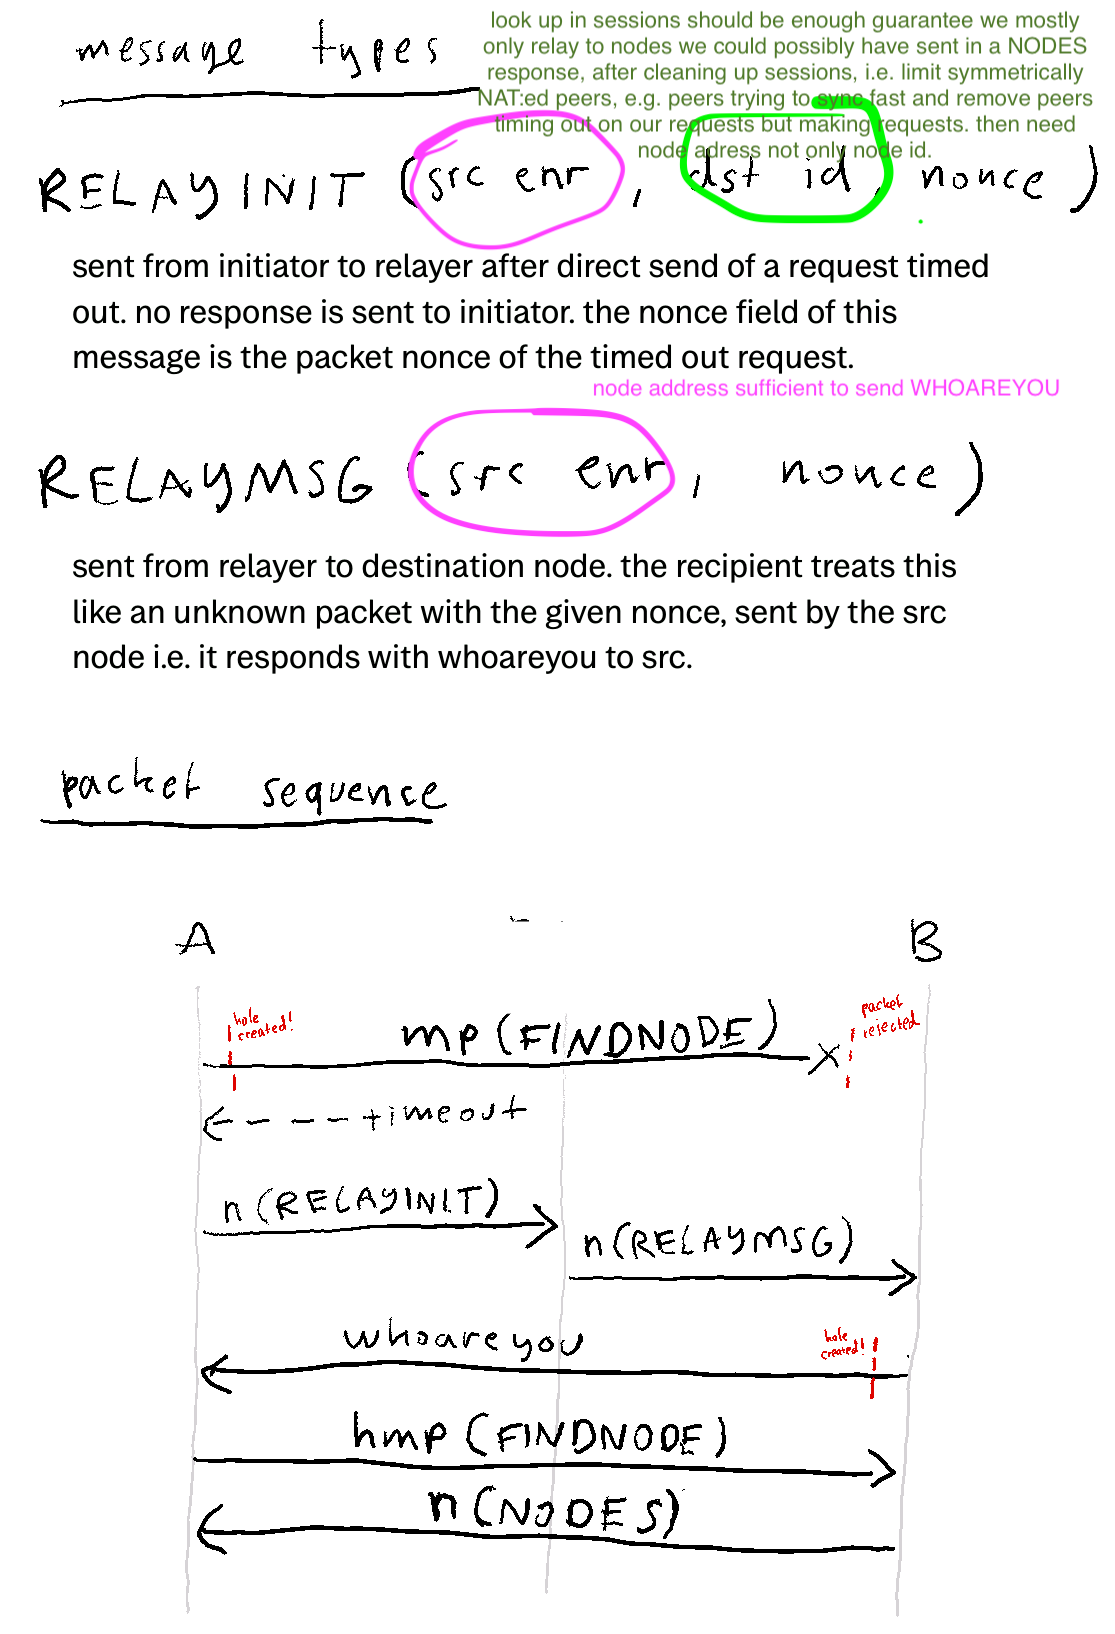
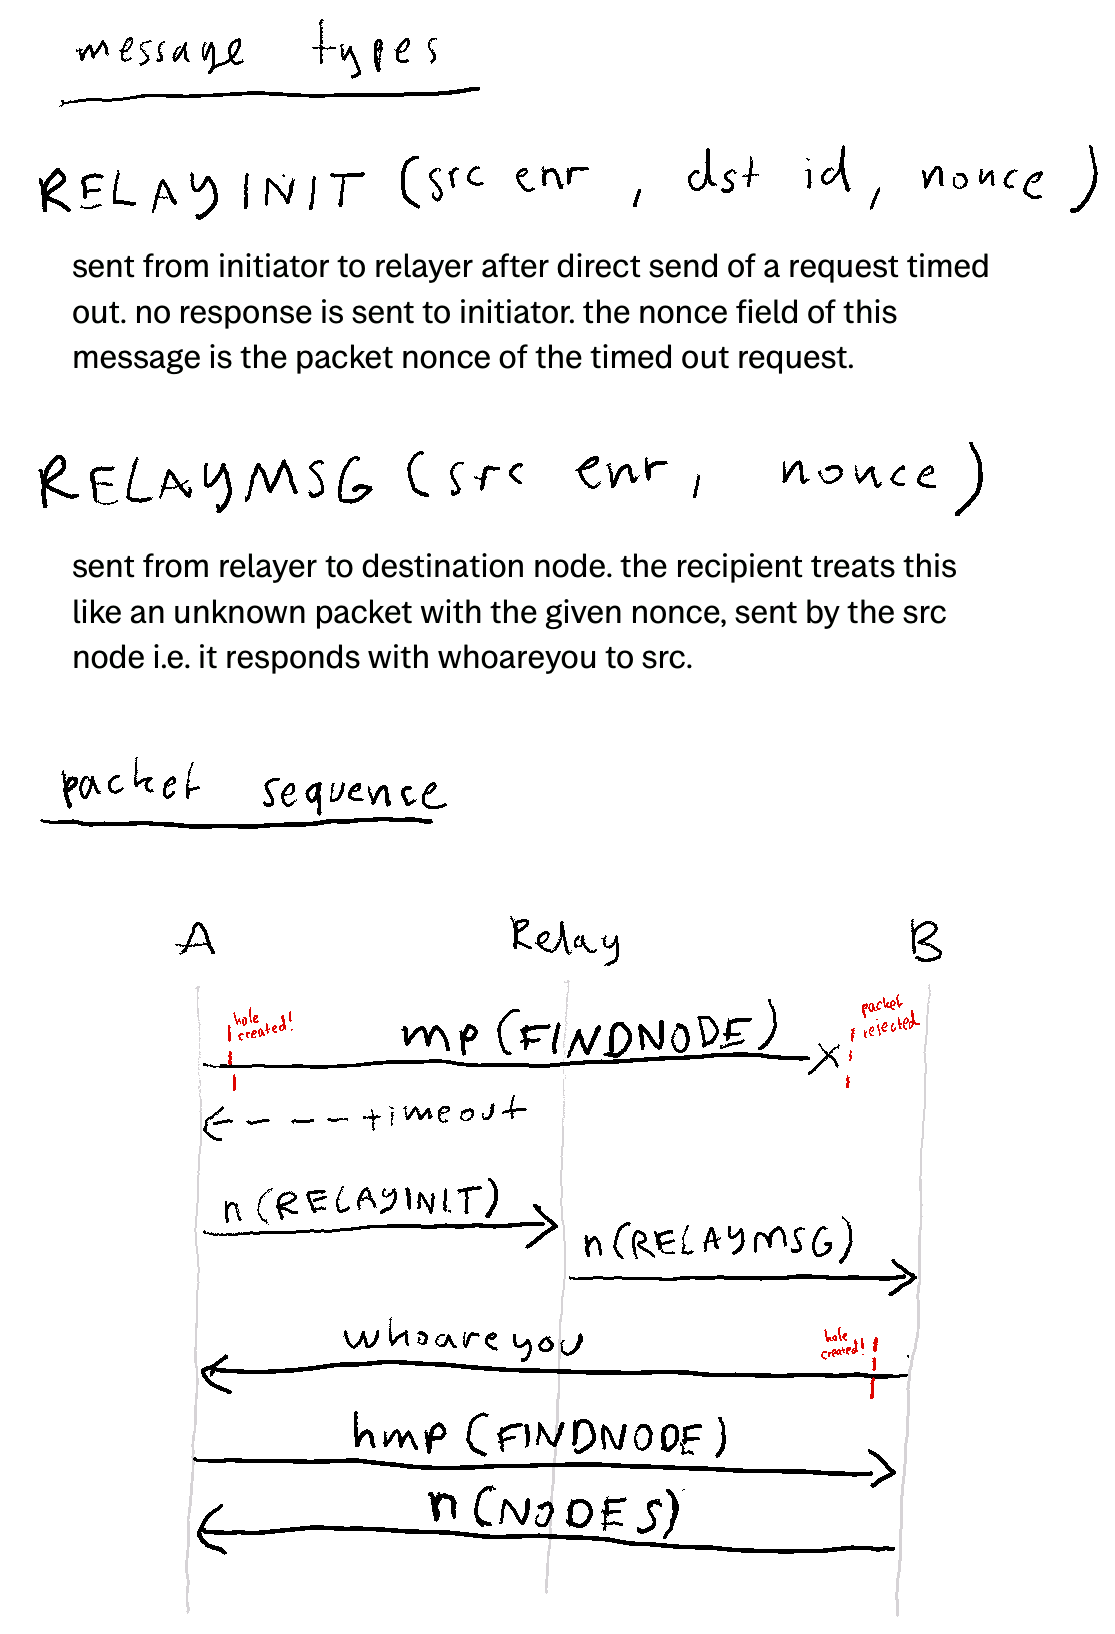
Limit relaying to only nodes in kbuckets

diff --git a/src/notification.rs b/src/notification.rs
@@ -6,12 +6,17 @@ pub const REALY_INIT_NOTIF_TYPE: u8 = 0;
 pub const REALY_MSG_NOTIF_TYPE: u8 = 1;
 /// Discv5 message nonce length in bytes.
 pub const MESSAGE_NONCE_LENGTH: usize = 12;
+/// Discv5 node id length in bytes.
+pub const NODE_ID_LENGTH: usize = 32;
 
 /// Discv5 message nonce.
 pub type MessageNonce = [u8; MESSAGE_NONCE_LENGTH];
 /// The message nonce of the timed out FINDNODE request that triggered the initiation of this hole
 /// punching attempt.
 pub type NonceOfTimedOutMessage = MessageNonce;
+
+/// Discv5 node id.
+pub type NodeId = [u8; NODE_ID_LENGTH];
 
 /// A unicast notification sent over discv5.
 #[derive(Debug)]
@@ -24,9 +29,9 @@ pub enum Notification<TEnr: Encodable + Decodable> {
 
 /// A hole punch notification sent to the relay. Contains the enr of the initiator of the hole
 /// punch, the nonce of the request from the initiator to the target that triggered `on_time_out`
-/// and the enr of the hole punch target peer.
+/// and the node id of the hole punch target peer.
 #[derive(Clone, PartialEq, Debug)]
-pub struct RelayInit<TEnr: Encodable + Decodable>(pub TEnr, pub NonceOfTimedOutMessage, pub TEnr);
+pub struct RelayInit<TEnr: Encodable + Decodable>(pub TEnr, pub NodeId, pub NonceOfTimedOutMessage);
 /// A relayed hole punch notification sent to the target. Contains the enr of the initiator of the
 /// hole punch and the nonce of the initiator's request that timed out, so the hole punch target
 /// peer can respond with WHOAREYOU to the initiator.
@@ -56,7 +61,8 @@ where
 
         let initiator = rlp.val_at::<TEnr>(0)?;
 
-        let nonce_bytes = rlp.val_at::<Vec<u8>>(1)?;
+        let nonce_bytes = rlp.val_at::<Vec<u8>>(list_len - 1)?;
+
         if nonce_bytes.len() > MESSAGE_NONCE_LENGTH {
             return Err(DecoderError::RlpIsTooBig);
         }
@@ -68,8 +74,15 @@ where
                 if list_len != 3 {
                     return Err(DecoderError::RlpIncorrectListLen);
                 }
-                let target = rlp.val_at::<TEnr>(2)?;
-                Ok(RelayInit(initiator, nonce, target).into())
+
+                let tgt_bytes = rlp.val_at::<Vec<u8>>(1)?;
+                if tgt_bytes.len() > NODE_ID_LENGTH {
+                    println!("waa");
+                    return Err(DecoderError::RlpIsTooBig);
+                }
+                let mut tgt = [0u8; NODE_ID_LENGTH];
+                tgt[NODE_ID_LENGTH - tgt_bytes.len()..].copy_from_slice(&tgt_bytes);
+                Ok(RelayInit(initiator, tgt, nonce).into())
             }
             REALY_MSG_NOTIF_TYPE => {
                 if list_len != 2 {
@@ -87,15 +100,15 @@ where
     TEnr: Encodable + Decodable,
 {
     pub fn rlp_encode(self) -> Vec<u8> {
-        let RelayInit(initiator, nonce, target) = self;
+        let RelayInit(initiator, target, nonce) = self;
 
         let mut s = RlpStream::new();
         s.begin_list(3);
         s.append(&initiator);
+        s.append(&(&target as &[u8]));
         s.append(&(&nonce as &[u8]));
-        s.append(&target);
 
-        let mut buf: Vec<u8> = Vec::with_capacity(612);
+        let mut buf: Vec<u8> = Vec::with_capacity(280);
         buf.push(REALY_INIT_NOTIF_TYPE);
         buf.extend_from_slice(&s.out());
         buf
@@ -137,12 +150,14 @@ mod tests {
         let enr_key_tgt = CombinedKey::generate_secp256k1();
         // construct the target's ENR
         let tgt_enr = EnrBuilder::new("v4").build(&enr_key_tgt).unwrap();
-
+        let tgt_node_id = tgt_enr.node_id().raw();
+        println!("{:?}", tgt_node_id);
         let nonce_bytes = hex::decode("47644922f5d6e951051051ac").unwrap();
         let mut nonce = [0u8; MESSAGE_NONCE_LENGTH];
         nonce[MESSAGE_NONCE_LENGTH - nonce_bytes.len()..].copy_from_slice(&nonce_bytes);
 
-        let notif = RelayInit(init_enr, nonce, tgt_enr);
+        println!("{:?}", nonce_bytes);
+        let notif = RelayInit(init_enr, tgt_node_id, nonce);
 
         let encoded_notif = notif.clone().rlp_encode();
         let decoded_notif = Notification::rlp_decode(&encoded_notif).expect("Should decode");

diff --git a/README.md b/README.md
@@ -6,4 +6,4 @@ Manual testing: https://github.com/emhane/discv5-cli/blob/nat/README.md
 Plugged in to discv5: https://github.com/emhane/discv5/tree/nat-hole-punch
 
 ![hole_punch_emhane_fjl](nat_hole_punch_sequence_diagram.png)
-WIP @emhane [@fjl](https://github.com/fjl)
+@emhane [@fjl](https://github.com/fjl)
